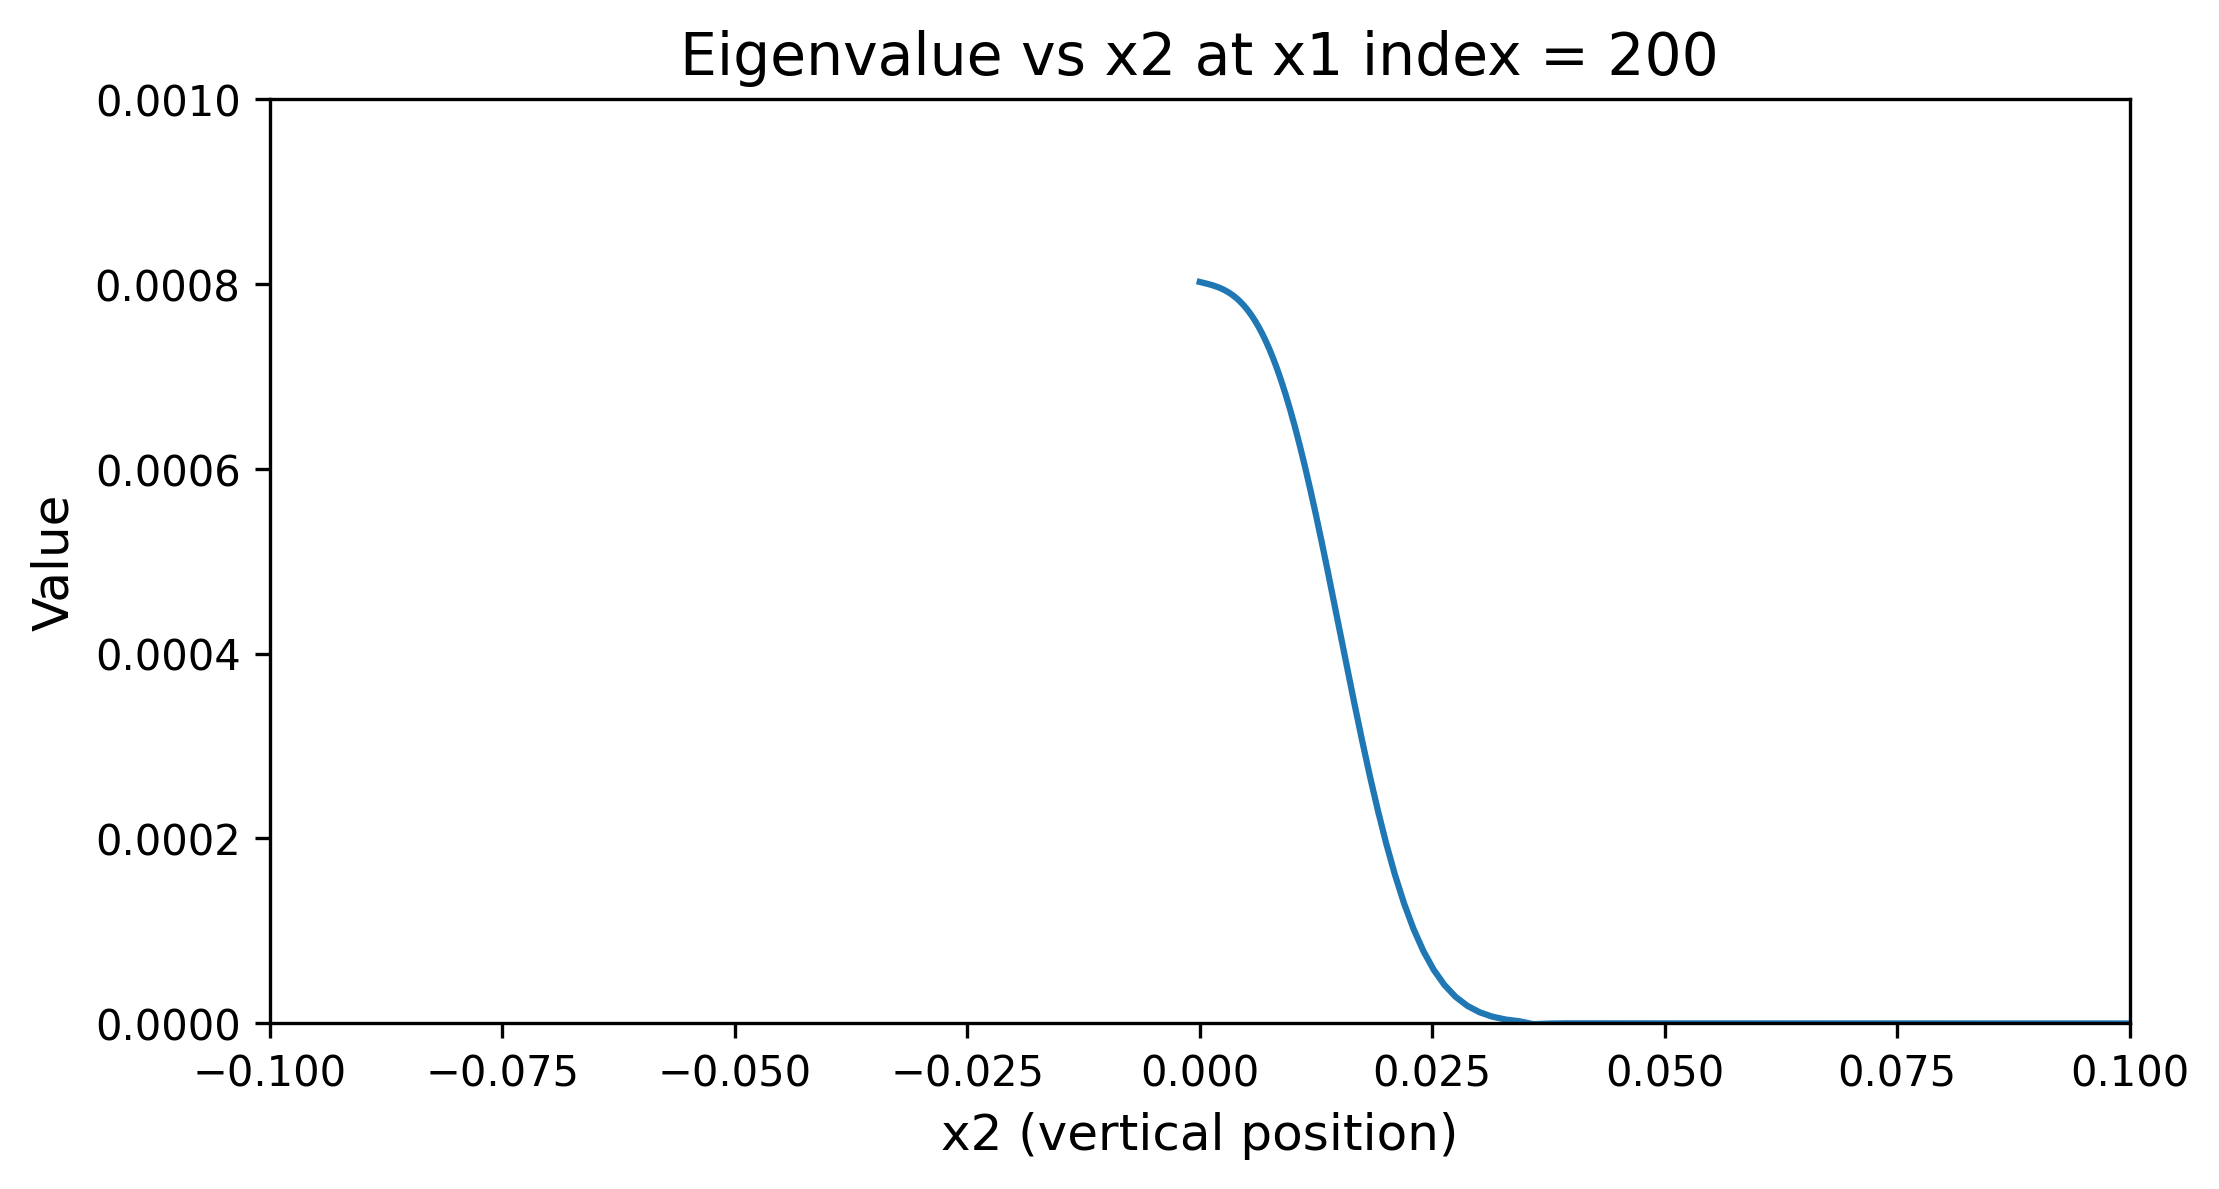
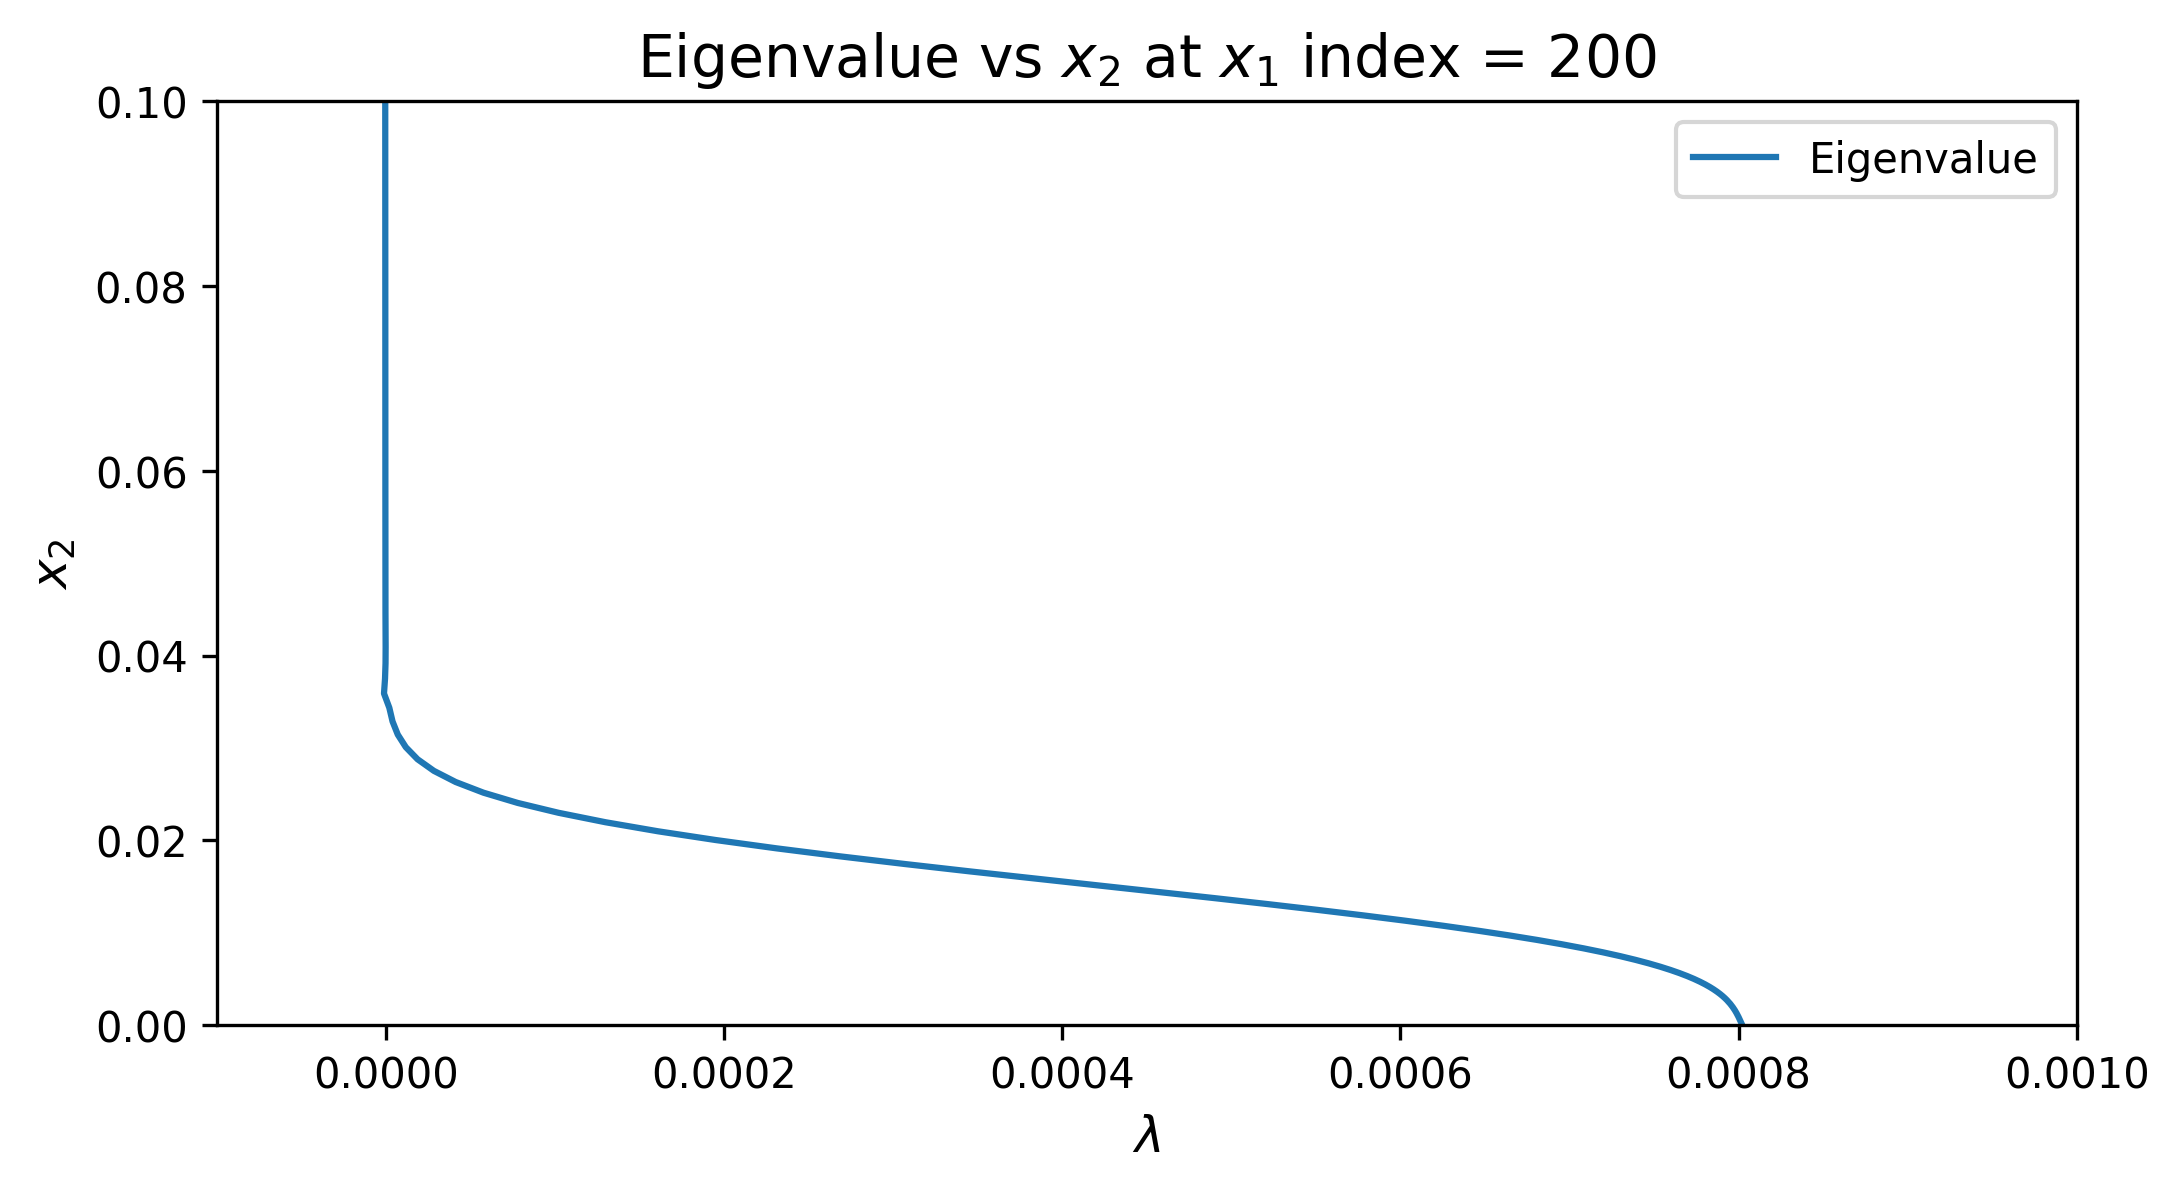
.

diff --git a/TME226/A1 (TME226) - Martin.py b/TME226/A1 (TME226) - Martin.py
@@ -813,22 +813,19 @@ print('bulk temperature: ', T_b)
 ##################################################
 new_prob(8)
 
+tau_11 = viscos * (dudx + dudx)
+tau_12 = tau_12
+tau_21 = tau_12 # symmetric tensor
+tau_22 = viscos * (dvdy + dvdy)
 
-dvdy = np.gradient(v2_2d, yp, axis=1)
-
-tau11 = viscos * (dudx + dudx)
-tau12 = tau_12
-tau21 = tau12 # Due to stress tensor being a symmetric tensor
-tau22 = viscos * (dvdy + dvdy)
-
-ni, nj = tau11.shape
+ni, nj = tau_11.shape
 eigvals = np.zeros((ni, nj, 2)) # Creates a vector of length 2 for each (i,j) point
 eigvecs = np.zeros((ni, nj, 2, 2)) # Creates a 2x2 matrix for each (i,j) point
 
 for i in range(ni): # Loop over all ni values
     for j in range(nj): # Loop over all nj values
-        tau = np.array([[tau11[i,j], tau12[i,j]],
-                        [tau21[i,j], tau22[i,j]]])
+        tau = np.array([[tau_11[i,j], tau_12[i,j]],
+                        [tau_21[i,j], tau_22[i,j]]])
         vals, vecs = np.linalg.eig(tau)
         eigvals[i,j] = vals
         eigvecs[i,j] = vecs
@@ -838,29 +835,37 @@ for i in range(ni): # Loop over all ni values
 
 i = 200  
 eigval_slice = eigvals[i, :, 1]   
-tau11_slice = tau11[i, :]
-tau12_slice = tau12[i, :]
-tau21_slice = tau21[i, :]
-tau22_slice = tau22[i, :]
+tau11_slice = tau_11[i, :]
+tau12_slice = tau_12[i, :]
+tau21_slice = tau_21[i, :]
+tau22_slice = tau_22[i, :]
 
 
 # Eigenvalue vs vertical position
-plt.plot(yp, eigval_slice, label="Eigenvalue")
-plt.xlabel("x2 (vertical position)")
-plt.ylabel("Value")
-plt.title(f"Eigenvalue vs x2 at x1 index = {i}")
-plt.axis([-0.1,0.1,0,0.001])
+plt.figure()
+
+plt.plot(eigval_slice, yp, label="Eigenvalue")
+
+plt.title(fr"Eigenvalue vs $x_2$ at $x_1$ index = {i}")
+plt.ylabel(fr"$x_2$")
+plt.xlabel("$\lambda$")
+plt.axis([-0.0001,0.001,0,0.1])
+plt.legend()
 plt.savefig('E8_1', dpi=dpi, bbox_inches='tight')
 plt.show()
+
+plt.figure()
 
 plt.plot(tau11_slice, yp, label=r"$\tau_{11}$")
 plt.plot(tau12_slice, yp, label=r"$\tau_{12}$")
 plt.plot(tau21_slice, yp, label=r"$\tau_{21}$")
 plt.plot(tau22_slice, yp, label=r"$\tau_{22}$")
-plt.axis([-0.000005,0.000008,0,0.3])
-plt.xlabel("x2 (vertical position)")
-plt.ylabel("Stress component value")
-plt.title(f"Stress components vs x2 at x1 index = {i}")
+
+plt.title(fr"Stress components vs $x_2$ at $x_1$ index = {i}")
+plt.axis([-5e-6,5e-6,0,0.25])
+# plt.axis([0,0.3,-0.000005,0.000008])
+plt.ylabel(fr"$x_2$")
+plt.xlabel("Stress component value")
 plt.legend()
 plt.savefig('E8_2', dpi=dpi, bbox_inches='tight')
 plt.show()

diff --git a/TME235/A1 (TME235) - Martin.py b/TME235/A1 (TME235) - Martin.py
@@ -149,13 +149,8 @@ def quadmesh(p1,p2,nelx,nely,ndofs):
     B1,B2,B3,B4,P1,P2,P3,P4=B1B2B3B4_quadmesh(nelx,nely,ndofs)
     return Ex,Ey,Edof,B1,B2,B3,B4,P1,P2,P3,P4
 
-##################################################
-# E1
-##################################################
-new_prob(1)
-
 #%% ###################### Method 1: dsolve ##############################
-# E1
+# EULER-BERNOULLI
 ##################################################
 new_prob(1)
 print("\nCantilever Beam - Point Load at Free End")
@@ -210,6 +205,7 @@ print(f"\nMax deflection at x=L: w_max = {simplify(solution.subs(x, L))}")
 ## moment and shear with solution
 M_solution = simplify(M.subs(integration_constants))
 V_solution = simplify(V.subs(integration_constants))
+# print(V_solution.evalf(subs={P:5}))
 
 print(f"\nMoment: M(x):")
 display(M_solution)
@@ -221,10 +217,40 @@ display(V_solution)
 
 # %%
 ##################################################
-# E2
+# TIMOSHENKO
 ##################################################
 new_prob(2)
 
+## Define symbolic variables
+x, q0, E, I, Ks, G, A, L = symbols('x q0 E I Ks G A L', real=True)
 
+f_phi = Function('phi') # phi is a function of x
+
+## Define the differential equation in terms of phi
+diffeq_phi = Eq(E*I*f_phi(x).diff(x, 3), q0)
+
+## Solve the differential equation for phi(x) (eq. 3.35 LN)
+phi = dsolve(diffeq_phi, f_phi(x)).rhs
+
+## Solve the differential equation for w(x) (eq. 3.36 LN)
+w = Function('w') # w is a function of x
+diffeq_w = Eq(w(x).diff(x), -E*I/(G*Ks*A)*phi.diff(x,2) + phi)
+w        = dsolve(diffeq_w, w(x)).rhs
+
+## Define boundary conditions
+M = -E*I*phi.diff(x)
+boundary_conditions = [ w.subs(x, 0), # w(0)=0
+                        M.subs(x, 0), # M(0)=0
+                        w.subs(x, L), # w(L)=0
+                        M.subs(x, L)  # M(L)=0
+                        ]
+
+## Solve for the integration constants
+integration_constants = solve(boundary_conditions, 'C1, C2, C3, C4', real=True)
+
+## Substitute the integration constants into the solution
+solution = w.subs(integration_constants)
+
+solution
 
 # %%
